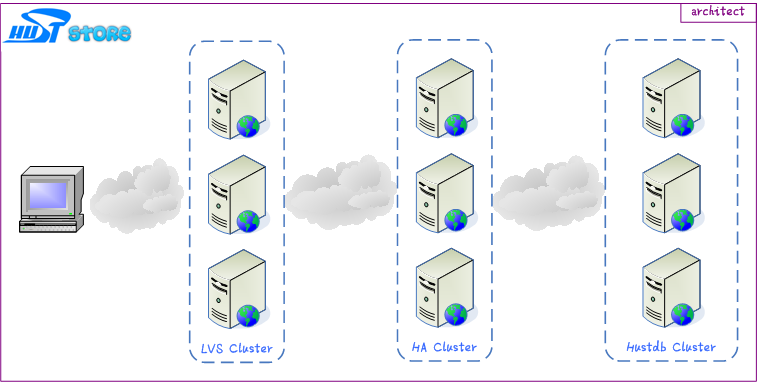
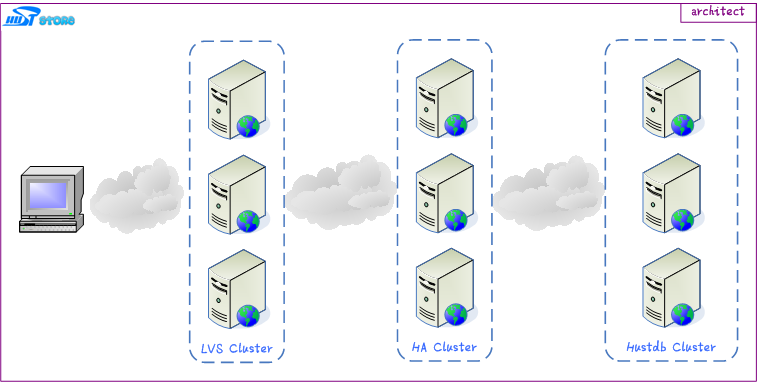
add ha design doc

Changed region(s): [[0.0, 0.0, 0.1823, 0.1152]]

diff --git a/hustdb/doc/doc/intro/ha.md b/hustdb/doc/doc/intro/ha.md
@@ -5,6 +5,8 @@ hustdb ha
 * `HA` : `hustdb ha` 的核心组件，是一个典型的 `nginx http` 模块
 * `sync server` : 数据同步服务
 
+![ha](../../../../res/ha.png)
+
 `HA` 在写入后端 `db` 失败时，会将数据写入本地日志，`sync server` 负责将这些数据同步到后端 `db` 中。 `sync server` 在架构设计上只为 `HA` 提供服务， **对于用户而言是透明的** ，用户可以通过 `HA` 提供的接口查询 `sync server` 的信息。
 
 项目目录：
